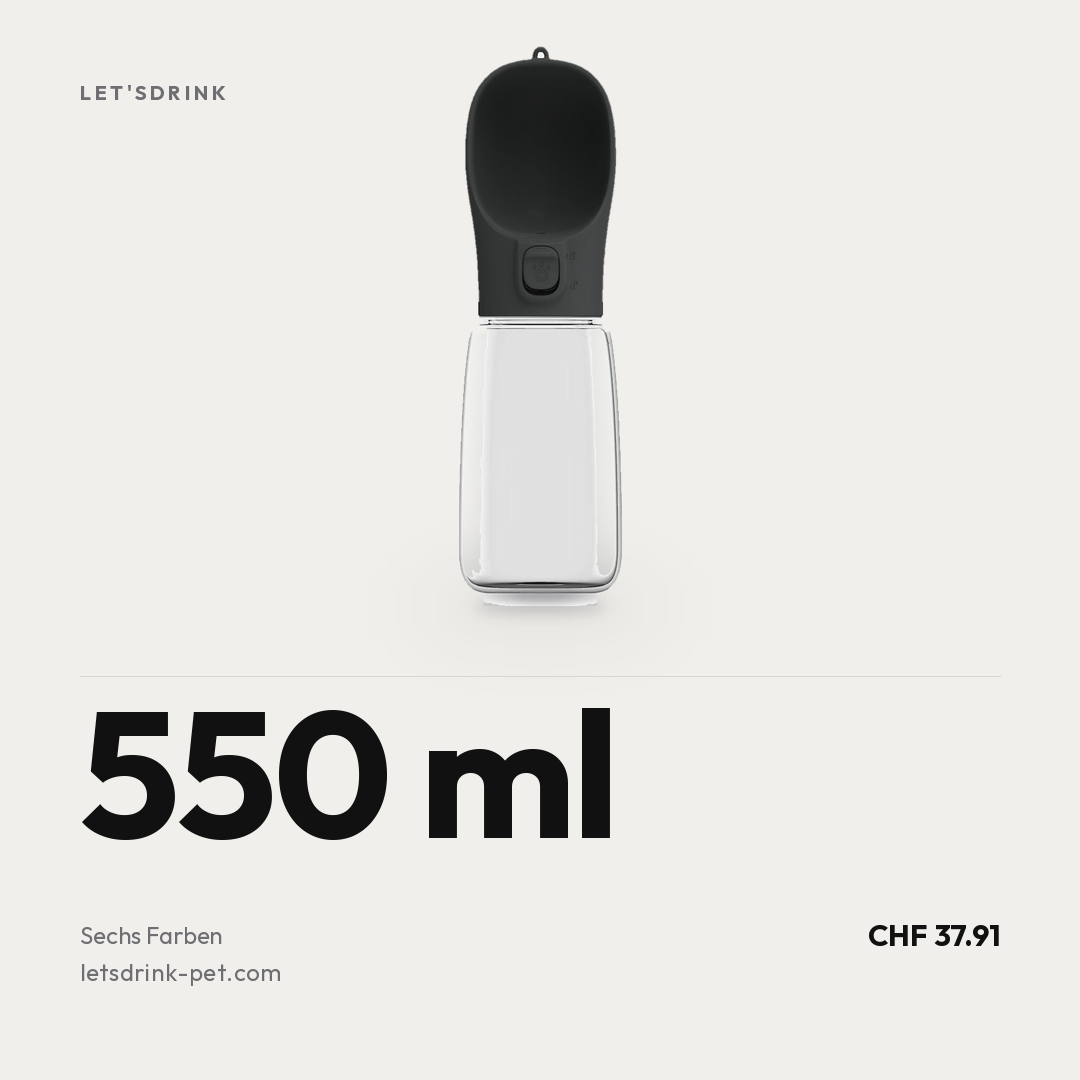
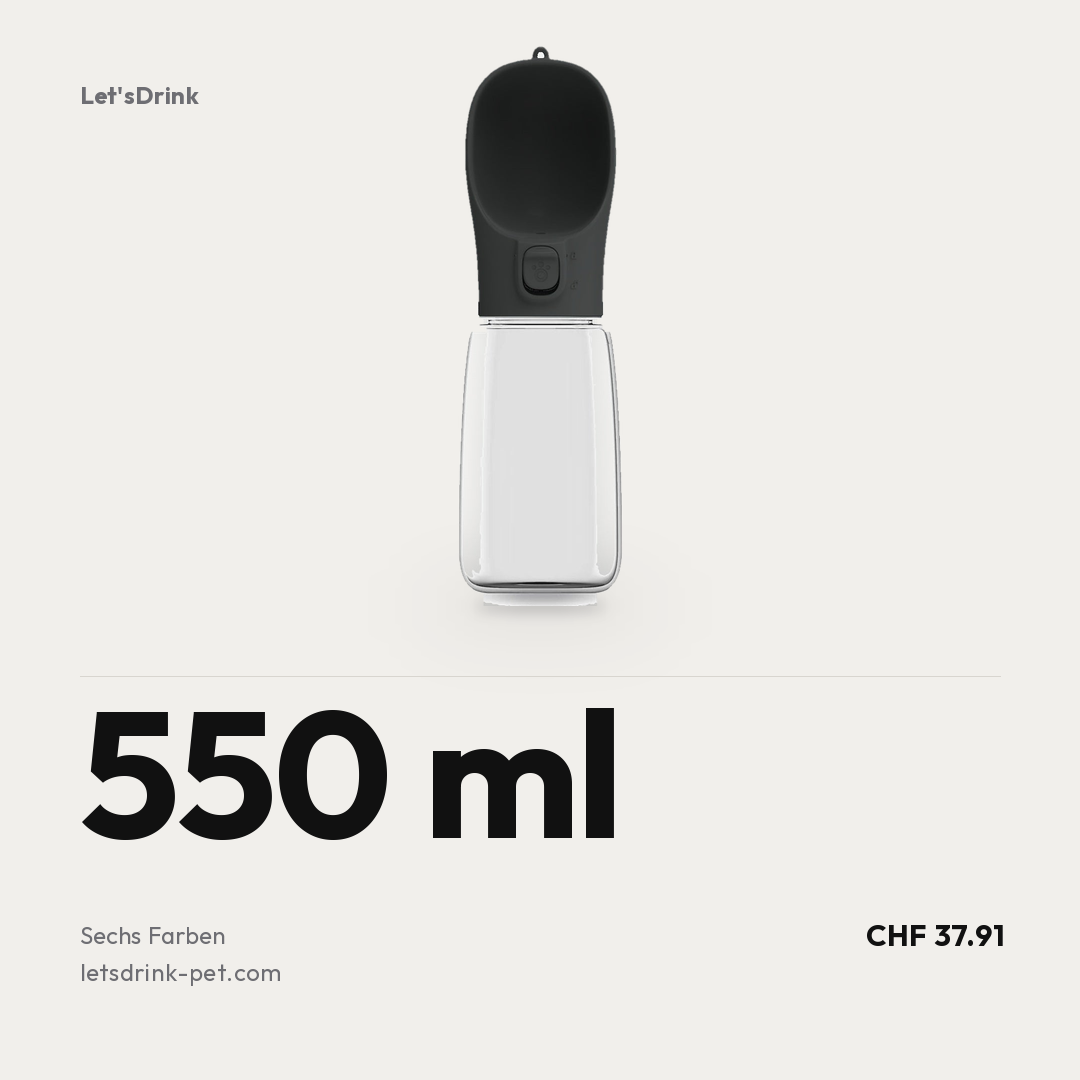
Typografie der Werbebilder: Markenzeile lesbar, Wortabstand nach Groesse
Drei Aenderungen, alle nachgemessen statt nach Gefuehl.

1. MARKENZEILE. Sie stand als 'LET'SDRINK' in um 0.17 em gesperrten
   Versalien. Dadurch stand der Apostroph als eigenes Zeichen und die
   Zeile las sich als 'LET' SDRINK'. Jetzt 'Let'sDrink' in
   Markenschreibweise, wie sie im Theme siebenmal vorkommt, Sperrung
   zurueck auf 0.4 und Grad um 4 px hoeher. Das ist die einzige
   Aenderung, die man auf den ersten Blick sieht.

2. WORTABSTAND NACH GROESSE. Outfit setzt das Leerzeichen auf 0.208 em
   - gemessen, zum Vergleich IBM Plex Sans 0.236 und Fraunces 0.205.
   Kein Ausreisser, aber am unteren Rand, und in kleinen Graden liefen
   Woerter zusammen ('Der Napfist fest angebaut'). Neu bekommt jeder
   Text automatisch etwas Wortabstand, gestaffelt nach Grad: 0.06 em
   bei 24 px, linear auf null bei 64 px. Alte Regel aus dem Bleisatz -
   kleiner Grad braucht mehr Wortabstand, grosser weniger. Die Wirkung
   ist fein, nicht spektakulaer.

   Nebenbei behoben: negative Laufweite wirkte bisher auch auf
   Leerzeichen und verengte sie zusaetzlich. Jetzt trifft sie nur
   Buchstaben.

3. Eine Vermutung verworfen. Ich hatte zuerst die Zeichenroutine im
   Verdacht, Wortabstaende zu verschlucken. Nachgemessen: sie weicht
   um 0.6 Prozent von der nativen Ausgabe ab, verliert also nichts.
   Die Ursache lag in der Schriftmetrik.

Schriftwahl unveraendert: Anzeigen und Shop benutzen beide Outfit.

Claude-Session: https://claude.ai/code/session_01VSwRRNMuiMW9jhpUvJvs51

diff --git a/shop/werbung/lib_studio.py b/shop/werbung/lib_studio.py
@@ -95,42 +95,87 @@ def stelle(base, bild, *, hoehe, cx, boden_y, winkel=0.0, mit_schatten=True, **s
 
 
 # --- Typografie --------------------------------------------------------
-def _tw(draw, txt, f, track):
-    return draw.textlength(txt, font=f) + track * max(0, len(txt) - 1)
+def _tw(draw, txt, f, track, wort=0.0):
+    return (draw.textlength(txt, font=f) + track * max(0, len(txt) - 1)
+            + wort * txt.count(" "))
 
 
-def text(base, xy, txt, f, fill=TEXT, track=0.0, anchor="ls"):
-    """Text mit echter Laufweite. anchor: l/m/r + s(baseline-frei, top-basiert)."""
+def wortbonus(f):
+    """Zusaetzlicher Wortabstand nach Schriftgroesse - optische Groesse.
+
+    Alte Regel aus dem Bleisatz: kleiner Grad braucht mehr Wortabstand,
+    grosser Grad weniger. In Auszeichnungsgroessen wirkt ein weiter
+    Wortabstand loecherig, im Kleingedruckten laufen die Woerter sonst
+    zusammen.
+
+    Gewaehlt: 0.06 em bei 24 px und darunter, linear auf 0 bei 64 px.
+    Bei 24 px sind das 1.4 px, bei 40 px 0.9 px, ab 64 px nichts.
+    """
+    s = getattr(f, "size", 0)
+    if s >= 64:
+        return 0.0
+    anteil = 0.06 * min(1.0, (64 - s) / 40.0)
+    return s * anteil
+
+
+def text(base, xy, txt, f, fill=TEXT, track=0.0, anchor="ls", wort=None):
+    """Text mit echter Laufweite.
+
+    anchor: l/m/r + s(baseline-frei, top-basiert)
+    wort:   zusaetzliche Pixel NUR auf Leerzeichen.
+            None = automatisch nach Groesse (siehe wortbonus).
+            0.0  = ausdruecklich keiner.
+
+    WARUM ES "wort" GIBT
+    Am 19.8.2026 nachgemessen: Outfit setzt das Leerzeichen auf 0.208 em.
+    Zum Vergleich IBM Plex Sans 0.236, Fraunces 0.205 - Outfit ist also
+    kein Ausreisser, aber am unteren Rand. In kleinen Groessen, etwa in
+    der Merkmalliste von E-fakten bei 24 px auf 1080 px Breite, laufen
+    dadurch Woerter optisch zusammen ("Der Napfist fest angebaut").
+
+    Negative Laufweite verschaerft das zusaetzlich, weil sie auf jedes
+    Zeichen wirkt - auch auf das Leerzeichen. Deshalb wird die Laufweite
+    hier auf Leerzeichen NICHT angewandt und stattdessen "wort" addiert.
+    """
+    if wort is None:
+        wort = wortbonus(f)
     d = ImageDraw.Draw(base)
     x, y = xy
-    total = _tw(d, txt, f, track)
+    total = _tw(d, txt, f, track, wort)
     ha = anchor[0]
     if ha == "m":
         x -= total / 2
     elif ha == "r":
         x -= total
-    if track == 0:
+    if track == 0 and wort == 0:
         d.text((x, y), txt, font=f, fill=fill)
     else:
         for ch in txt:
             d.text((x, y), ch, font=f, fill=fill)
-            x += d.textlength(ch, font=f) + track
+            if ch == " ":
+                x += d.textlength(ch, font=f) + wort
+            else:
+                x += d.textlength(ch, font=f) + track
     return total
 
 
-def block(base, xy, zeilen, f, *, lh, fill=TEXT, track=0.0, anchor="l"):
+def block(base, xy, zeilen, f, *, lh, fill=TEXT, track=0.0, anchor="l",
+          wort=None):
     x, y = xy
     for z in zeilen:
-        text(base, (x, y), z, f, fill=fill, track=track, anchor=anchor + "s")
+        text(base, (x, y), z, f, fill=fill, track=track, anchor=anchor + "s",
+             wort=wort)
         y += lh
     return y
 
 
-def ink(txt, f, track=0.0):
+def ink(txt, f, track=0.0, wort=None):
     """Tatsaechliche Tintenbox relativ zum Zeichen-Ursprung (x, y-top)."""
+    if wort is None:
+        wort = wortbonus(f)
     probe = ImageDraw.Draw(Image.new("L", (8, 8)))
     b = f.getbbox(txt)
-    return (b[0], b[1], _tw(probe, txt, f, track), b[3] - b[1])
+    return (b[0], b[1], _tw(probe, txt, f, track, wort), b[3] - b[1])
 
 
 def text_ink(base, x, ink_top, txt, f, fill=TEXT, track=0.0, anchor="l"):

diff --git a/shop/werbung/g_einer.py b/shop/werbung/g_einer.py
@@ -33,7 +33,7 @@ def quadrat():
     img = studio_bg(W, H, horizon=828)
     stelle(img, flasche(FARBE), hoehe=742, cx=792, boden_y=884)
 
-    text(img, (m, m), "LET'SDRINK", font(20, True), MUTED, track=3.4)
+    text(img, (m, m), "Let'sDrink", font(24, True), MUTED, track=0.4)
     y = block(img, (m, 348), ["Ein Gegenstand", "statt zwei."], font(76, True),
               lh=84, track=-1.9)
     text(img, (m, y + 34), "Flasche und Napf sind eins.", font(29), MUTED)
@@ -51,7 +51,7 @@ def story():
     stelle(img, flasche(FARBE), hoehe=740, cx=560, boden_y=1414,
            a_blur=46, a_w=1.5)
 
-    text(img, (m, 270), "LET'SDRINK", font(22, True), MUTED, track=3.8)
+    text(img, (m, 270), "Let'sDrink", font(26, True), MUTED, track=0.4)
     y = block(img, (m, 356), ["Ein Gegenstand", "statt zwei."], font(82, True),
               lh=90, track=-2.0)
     text(img, (m, y + 32), "Flasche und Napf sind eins.", font(30), MUTED)
@@ -72,7 +72,7 @@ def link():
     stelle(img, flasche(FARBE), hoehe=498, cx=958, boden_y=534,
            a_blur=34, a_h=0.085)
 
-    text(img, (m, 56), "LET'SDRINK", font(18, True), MUTED, track=3.2)
+    text(img, (m, 56), "Let'sDrink", font(22, True), MUTED, track=0.4)
     y = block(img, (m, 186), ["Ein Gegenstand", "statt zwei."], font(64, True),
               lh=70, track=-1.6)
     text(img, (m, y + 24), "Flasche und Napf sind eins.", font(25), MUTED)

diff --git a/shop/werbung/f_rest.py b/shop/werbung/f_rest.py
@@ -36,7 +36,7 @@ def quadrat():
     img = studio_bg(W, H, horizon=828)
     stelle(img, flasche(FARBE), hoehe=742, cx=792, boden_y=884)
 
-    text(img, (m, m), "LET'SDRINK", font(20, True), MUTED, track=3.4)
+    text(img, (m, m), "Let'sDrink", font(24, True), MUTED, track=0.4)
     y = block(img, (m, 348), ["Der Rest", "läuft", "zurück."], font(88, True),
               lh=96, track=-2.2)
     text(img, (m, y + 34), "Kein Wasser, das du wegkippst.", font(29), MUTED)
@@ -54,7 +54,7 @@ def story():
     stelle(img, flasche(FARBE), hoehe=740, cx=560, boden_y=1414,
            a_blur=46, a_w=1.5)
 
-    text(img, (m, 270), "LET'SDRINK", font(22, True), MUTED, track=3.8)
+    text(img, (m, 270), "Let'sDrink", font(26, True), MUTED, track=0.4)
     block(img, (m, 356), ["Der Rest", "läuft", "zurück."], font(96, True),
           lh=104, track=-2.4)
 
@@ -74,7 +74,7 @@ def link():
     stelle(img, flasche(FARBE), hoehe=498, cx=958, boden_y=534,
            a_blur=34, a_h=0.085)
 
-    text(img, (m, 56), "LET'SDRINK", font(18, True), MUTED, track=3.2)
+    text(img, (m, 56), "Let'sDrink", font(22, True), MUTED, track=0.4)
     y = block(img, (m, 176), ["Der Rest läuft", "zurück."], font(72, True),
               lh=78, track=-1.8)
     text(img, (m, y + 24), "Kein Wasser, das du wegkippst.", font(25), MUTED)

diff --git a/shop/werbung/e_fakten.py b/shop/werbung/e_fakten.py
@@ -27,7 +27,7 @@ def quadrat():
     stelle(img, flasche(FARBE), hoehe=650, cx=852, boden_y=866,
            a_w=1.32, a_blur=38)
 
-    text(img, (m, m), "LET'SDRINK", font(20, True), MUTED, track=3.4)
+    text(img, (m, m), "Let'sDrink", font(24, True), MUTED, track=0.4)
     text(img, (m, 190), "Auf einen Blick.", font(60, True), TEXT, track=-1.5)
 
     ende = liste(img, m, 340, 566, font(27), zeile_h=70, pad=21)
@@ -43,7 +43,7 @@ def story():
     stelle(img, flasche(FARBE), hoehe=740, cx=540, boden_y=1000,
            a_w=1.42, a_blur=46)
 
-    text(img, (m, 288), "LET'SDRINK", font(22, True), MUTED, track=3.8)
+    text(img, (m, 288), "Let'sDrink", font(26, True), MUTED, track=0.4)
     ende = liste(img, m, 1094, W - 2 * m, font(31), zeile_h=80, pad=24)
 
     text_ink(img, m, ende + 58, "CHF 37.91", font(66, True), TEXT, track=-1.5)
@@ -59,7 +59,7 @@ def link():
     stelle(img, flasche(FARBE), hoehe=456, cx=1002, boden_y=528,
            a_w=1.28, a_blur=32)
 
-    text(img, (m, 54), "LET'SDRINK", font(18, True), MUTED, track=3.2)
+    text(img, (m, 54), "Let'sDrink", font(22, True), MUTED, track=0.4)
     text(img, (m, 116), "Auf einen Blick.", font(44, True), TEXT, track=-1.1)
 
     ende = liste(img, m, 208, 600, font(24), zeile_h=56, pad=16)

diff --git a/shop/werbung/d_volumen.py b/shop/werbung/d_volumen.py
@@ -13,8 +13,12 @@ def hochformat(W, H, m, *, hoehe, boden_y, regel_y, giant_h, giant_w,
     stelle(img, flasche(FARBE), hoehe=hoehe, cx=W / 2, boden_y=boden_y,
            kontakt=0.30, ambient=0.11, a_blur=max(20, hoehe // 16))
 
-    text(img, (m, m if H < 1500 else 280), "LET'SDRINK", font(brand_s, True),
-         MUTED, track=brand_s * 0.17)
+    # Markenschreibweise wie im Shop: "Let'sDrink", nicht gesperrte
+    # Versalien. In "LET'SDRINK" mit 0.17 em Sperrung stand der
+    # Apostroph als eigenes Zeichen und die Zeile las sich als
+    # "LET' SDRINK".
+    text(img, (m, m if H < 1500 else 280), "Let'sDrink",
+         font(brand_s + 4, True), MUTED, track=0.4)
 
     linie(img, m, regel_y, W - m, (216, 213, 207))
     gs = fit_ink_height("550 ml", giant_h, True, track=-2.0, max_breite=giant_w)
@@ -38,7 +42,7 @@ def link():
            kontakt=0.30, ambient=0.11, a_blur=30)
 
     sx, ex = 540, W - m
-    text(img, (sx, 92), "LET'SDRINK", font(18, True), MUTED, track=3.1)
+    text(img, (sx, 92), "Let'sDrink", font(22, True), MUTED, track=0.4)
     linie(img, sx, 236, ex, (216, 213, 207))
     gs = fit_ink_height("550 ml", 104, True, track=-2.0, max_breite=ex - sx)
     text_ink(img, sx, 268, "550 ml", font(gs, True), TEXT, track=-gs * 0.02)

diff --git a/shop/werbung/a_hand.py b/shop/werbung/a_hand.py
@@ -13,7 +13,7 @@ def quadrat():
     img = studio_bg(W, H, horizon=828)
     stelle(img, flasche(FARBE), hoehe=742, cx=792, boden_y=884)
 
-    text(img, (m, m), "LET'SDRINK", font(20, True), MUTED, track=3.4)
+    text(img, (m, m), "Let'sDrink", font(24, True), MUTED, track=0.4)
     y = block(img, (m, 372), ["Eine Hand", "reicht."], font(96, True),
               lh=104, track=-2.4)
     text(img, (m, y + 36), SUB, font(29), MUTED)
@@ -31,7 +31,7 @@ def story():
     stelle(img, flasche(FARBE), hoehe=740, cx=560, boden_y=1414,
            a_blur=46, a_w=1.5)
 
-    text(img, (m, 270), "LET'SDRINK", font(22, True), MUTED, track=3.8)
+    text(img, (m, 270), "Let'sDrink", font(26, True), MUTED, track=0.4)
     block(img, (m, 372), ["Eine Hand", "reicht."], font(104, True),
           lh=112, track=-2.6)
 
@@ -51,7 +51,7 @@ def link():
     stelle(img, flasche(FARBE), hoehe=498, cx=958, boden_y=534,
            a_blur=34, a_h=0.085)
 
-    text(img, (m, 56), "LET'SDRINK", font(18, True), MUTED, track=3.2)
+    text(img, (m, 56), "Let'sDrink", font(22, True), MUTED, track=0.4)
     y = block(img, (m, 196), ["Eine Hand", "reicht."], font(78, True),
               lh=84, track=-2.0)
     text(img, (m, y + 26), SUB, font(25), MUTED)

diff --git a/shop/werbung/b_farben.py b/shop/werbung/b_farben.py
@@ -24,7 +24,7 @@ def quadrat():
     W = H = 1080
     m = 76
     img = studio_bg(W, H)
-    text(img, (m, 76), "LET'SDRINK", font(20, True), MUTED, track=3.4)
+    text(img, (m, 76), "Let'sDrink", font(24, True), MUTED, track=0.4)
     text(img, (m, 196), "Sechs Farben.", font(92, True), TEXT, track=-2.4)
     text(img, (m, 308), "550 ml", font(28), MUTED)
 
@@ -40,7 +40,7 @@ def story():
     W, H = 1080, 1920
     m = 64
     img = studio_bg(W, H)
-    text(img, (m + 20, 280), "LET'SDRINK", font(22, True), MUTED, track=3.8)
+    text(img, (m + 20, 280), "Let'sDrink", font(26, True), MUTED, track=0.4)
     text(img, (m + 20, 380), "Sechs", font(118, True), TEXT, track=-3.0)
     text(img, (m + 20, 508), "Farben.", font(118, True), TEXT, track=-3.0)
     text(img, (m + 20, 690), "550 ml", font(30), MUTED)
@@ -60,7 +60,7 @@ def link():
     W, H = 1200, 628
     m = 64
     img = studio_bg(W, H)
-    text(img, (m, 62), "LET'SDRINK", font(18, True), MUTED, track=3.2)
+    text(img, (m, 62), "Let'sDrink", font(22, True), MUTED, track=0.4)
     text(img, (m, 152), "Sechs", font(70, True), TEXT, track=-1.8)
     text(img, (m, 228), "Farben.", font(70, True), TEXT, track=-1.8)
     text(img, (m, 330), "550 ml", font(25), MUTED)

diff --git a/shop/werbung/c_napf.py b/shop/werbung/c_napf.py
@@ -25,7 +25,7 @@ def quadrat():
     img.paste(im, (round(cx - im.width / 2), top), im)
     fuge = top + FUGE_REL * hoehe                       # = 751
 
-    text(img, (m, m), "LET'SDRINK", font(20, True), MUTED, track=3.4)
+    text(img, (m, m), "Let'sDrink", font(24, True), MUTED, track=0.4)
     block(img, (m, fuge - 214), ["Der Napf ist", "fest angebaut."],
           font(74, True), lh=82, track=-1.8)
 
@@ -49,7 +49,7 @@ def story():
     top = 1570 - hoehe
     fuge = top + FUGE_REL * hoehe
 
-    text(img, (m, 276), "LET'SDRINK", font(22, True), MUTED, track=3.8)
+    text(img, (m, 276), "Let'sDrink", font(26, True), MUTED, track=0.4)
     block(img, (m, 372), ["Der Napf ist", "fest angebaut."],
           font(96, True), lh=104, track=-2.4)
 
@@ -75,7 +75,7 @@ def link():
     cx = 902
     img.paste(im, (round(cx - im.width / 2), top), im)
 
-    text(img, (m, 54), "LET'SDRINK", font(18, True), MUTED, track=3.2)
+    text(img, (m, 54), "Let'sDrink", font(22, True), MUTED, track=0.4)
     block(img, (m, 232), ["Der Napf ist", "fest angebaut."],
           font(62, True), lh=68, track=-1.5)
 
